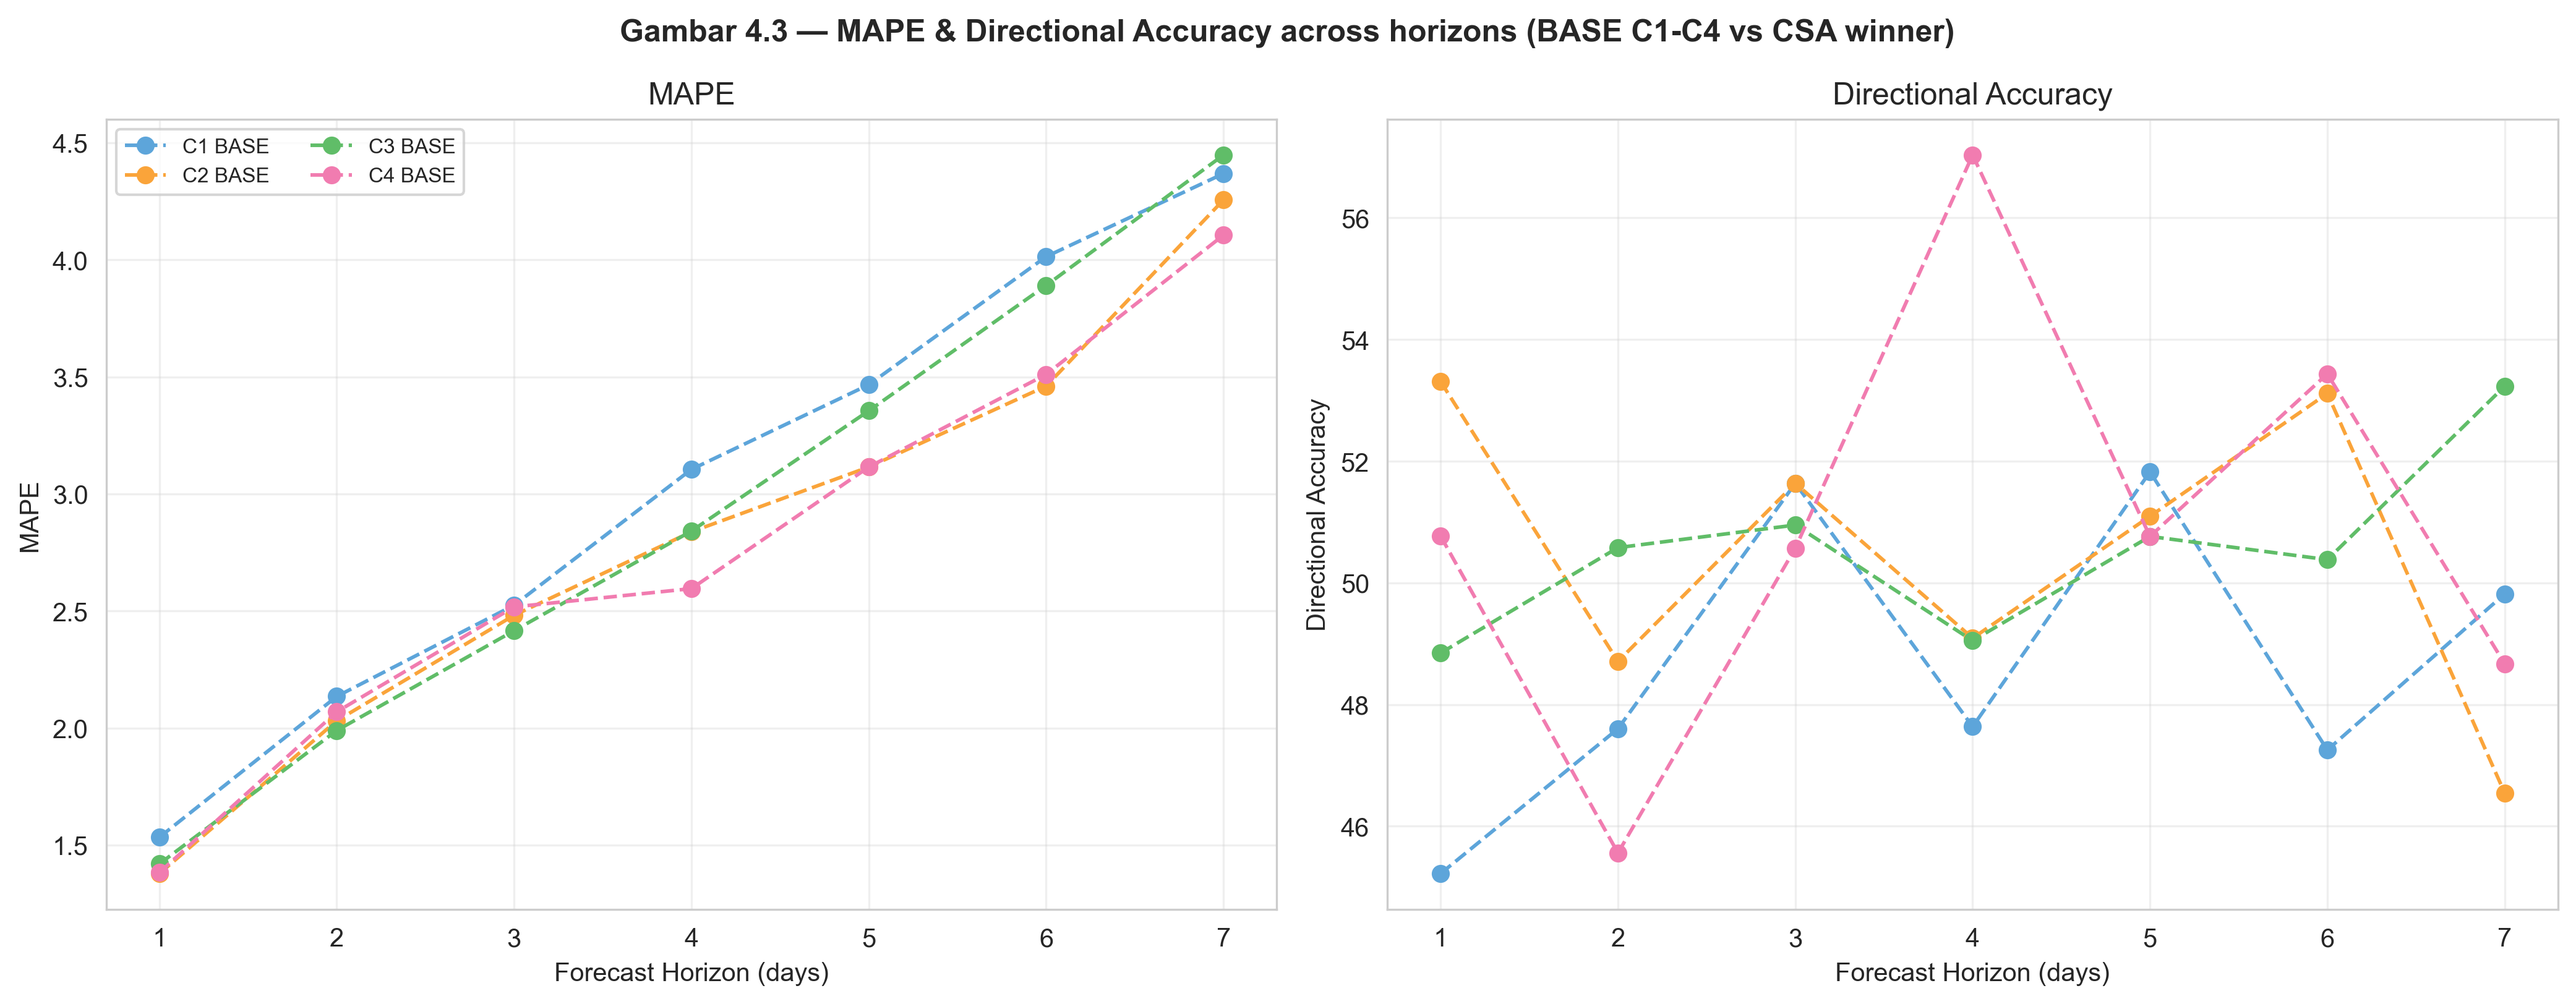
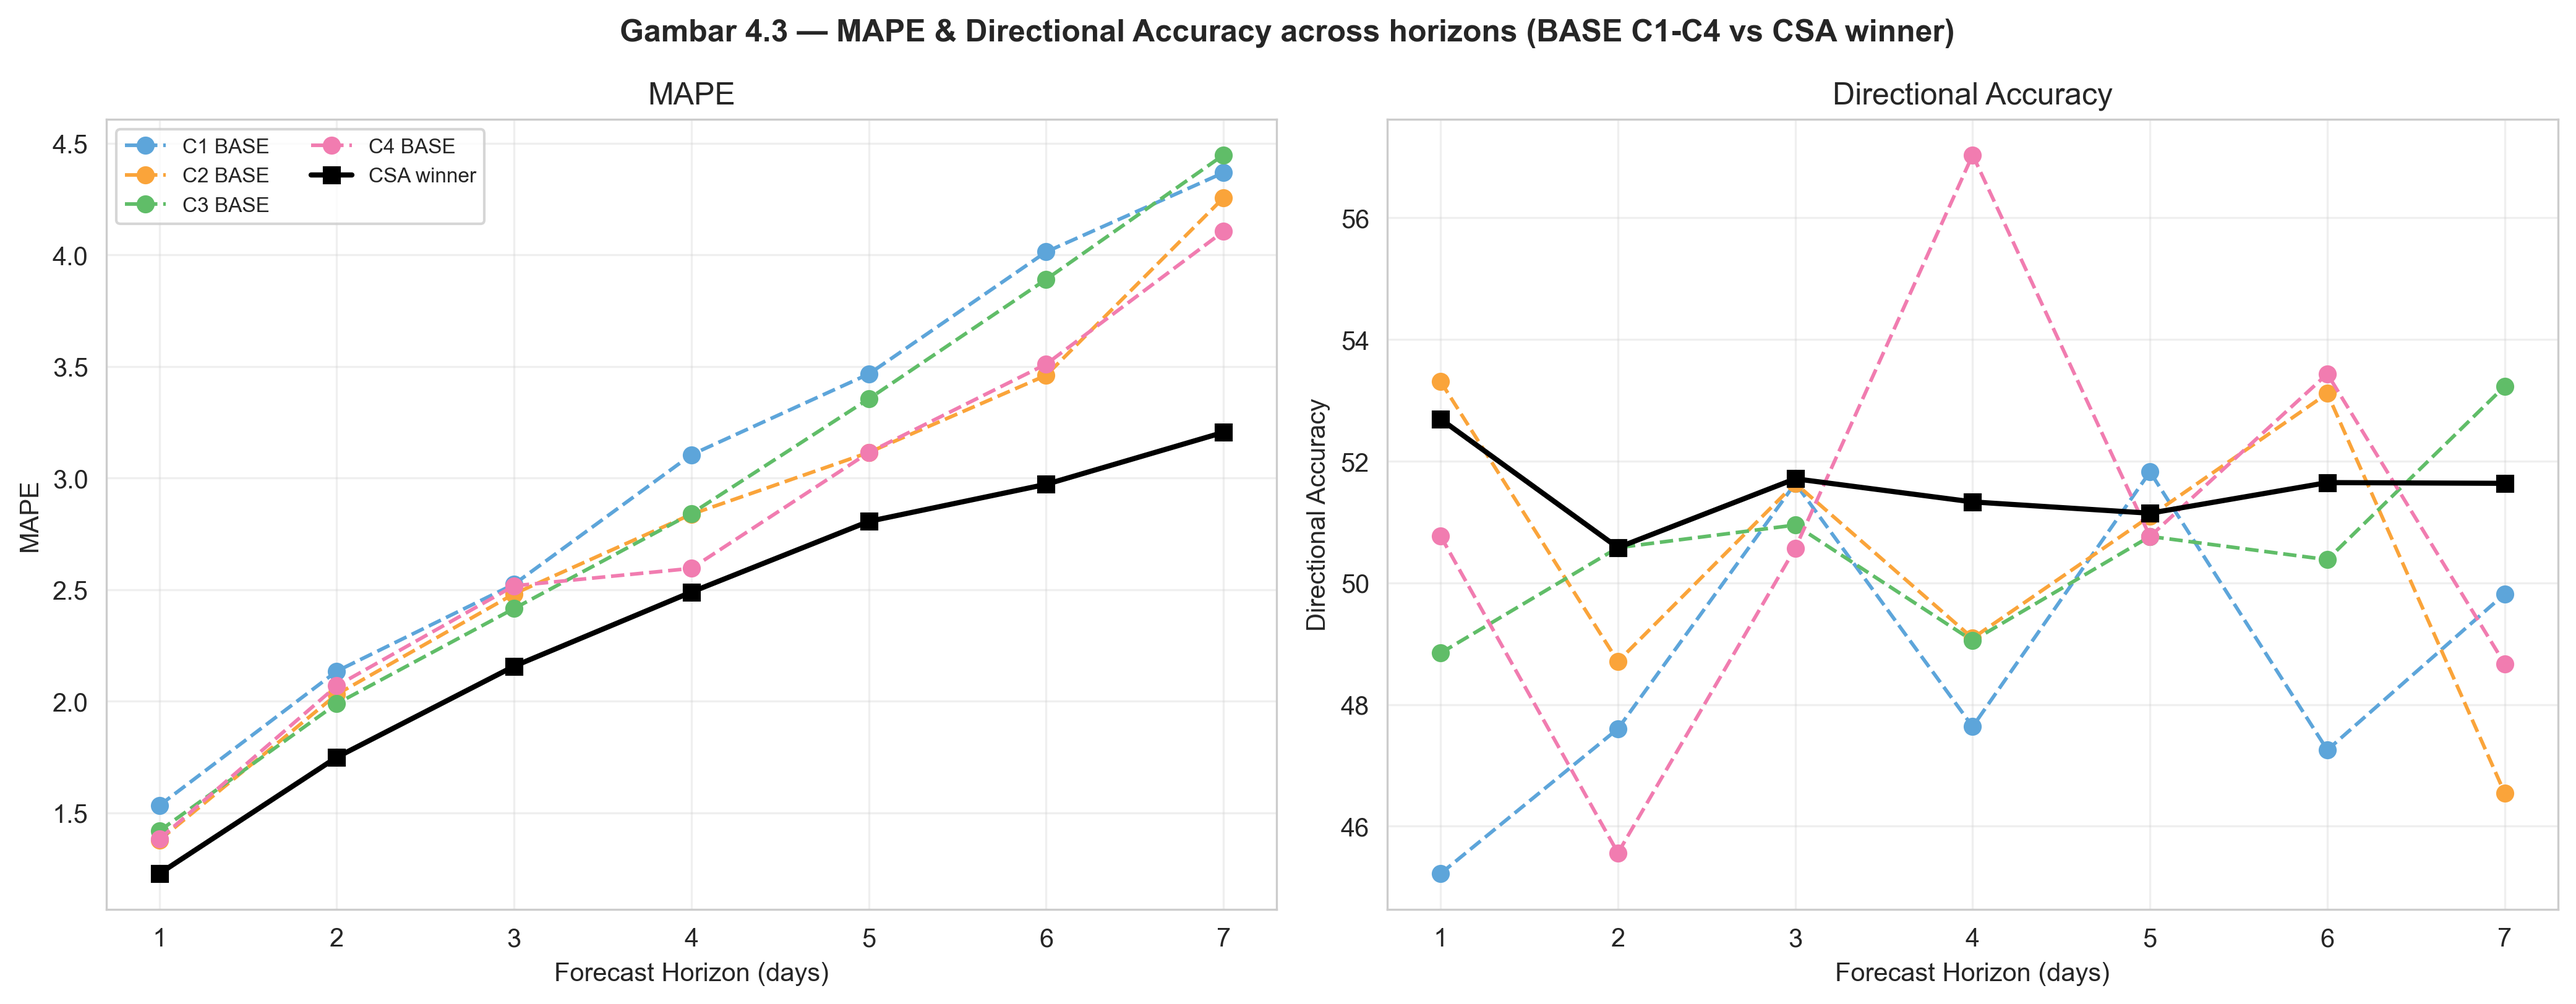
updated: model training and test split

diff --git a/prediction/train_winners_csa.py b/prediction/train_winners_csa.py
@@ -88,7 +88,6 @@ def main():
 
         cmd = [
             sys.executable, os.path.join(HERE, script),
-            '--interval', args.interval,
             '--horizons', ','.join(map(str, hs)),
             '--csa-population', str(args.csa_population),
             '--csa-iterations', str(args.csa_iterations),

diff --git a/THESIS_RESULTS_20260523/SUMMARY.md b/THESIS_RESULTS_20260523/SUMMARY.md
@@ -55,7 +55,15 @@ Source: `tabel_4.10_base_testing.csv`
 
 Source: `tabel_4.11_csa_winners_testing.csv`
 
-_(empty)_
+|   Horizon | Config   | Ablation      | Optimization   |   MAPE |   sMAPE |     RMSE |   Directional_Accuracy |   n_samples |
+|----------:|:---------|:--------------|:---------------|-------:|--------:|---------:|-----------------------:|------------:|
+|         1 | C3       | cpo_sentiment | CSA            | 1.2281 |  1.2257 |  69.1165 |                52.6923 |         263 |
+|         2 | C3       | cpo_sentiment | CSA            | 1.7492 |  1.7453 |  96.7518 |                50.5792 |         263 |
+|         3 | C3       | cpo_sentiment | CSA            | 2.1571 |  2.1515 | 118.595  |                51.711  |         263 |
+|         4 | C4       | full          | CSA            | 2.4894 |  2.4819 | 134.196  |                51.3308 |         263 |
+|         5 | C4       | full          | CSA            | 2.8059 |  2.7941 | 152.145  |                51.145  |         263 |
+|         6 | C2       | cpo_hmm       | CSA            | 2.972  |  2.9569 | 163.446  |                51.6484 |         275 |
+|         7 | C2       | cpo_hmm       | CSA            | 3.2049 |  3.1858 | 175.849  |                51.6364 |         275 |
 
 ## Tabel 4.12 — BASE pairwise Diebold-Mariano (HLN-corrected)
 
@@ -110,7 +118,15 @@ Source: `tabel_4.12_dm_base_pairwise.csv`. `better_model = tie` when p >= 0.05; 
 
 Source: `tabel_4.13_dm_csa_vs_base_winners.csv`. Per winner cell, tests whether CSA-tuned hyperparams beat the BASE defaults.
 
-_(empty)_
+|   Horizon | Winner_Config   |   n |   DM_star |   p_value | significant_at_0.05   | better_model   |
+|----------:|:----------------|----:|----------:|----------:|:----------------------|:---------------|
+|         1 | C3              | 263 |   -4.0125 |    0.0001 | True                  | CSA            |
+|         2 | C3              | 263 |   -3.0623 |    0.0024 | True                  | CSA            |
+|         3 | C3              | 263 |   -1.9496 |    0.0523 | False                 | tie            |
+|         4 | C4              | 263 |   -1.1131 |    0.2667 | False                 | tie            |
+|         5 | C4              | 263 |   -2.0415 |    0.0422 | True                  | CSA            |
+|         6 | C2              | 275 |   -2.4008 |    0.017  | True                  | CSA            |
+|         7 | C2              | 275 |   -3.7521 |    0.0002 | True                  | CSA            |
 
 ## H4 sufficiency — C4 BASE vs naive random walk
 
